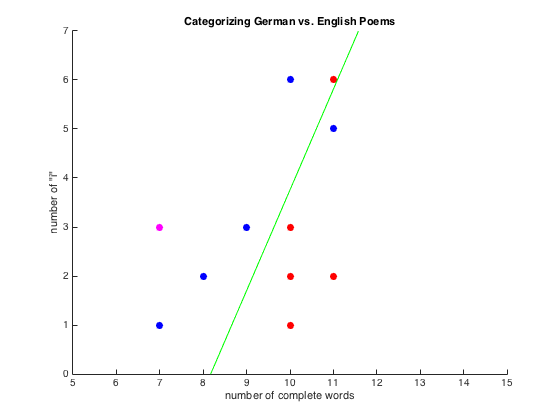
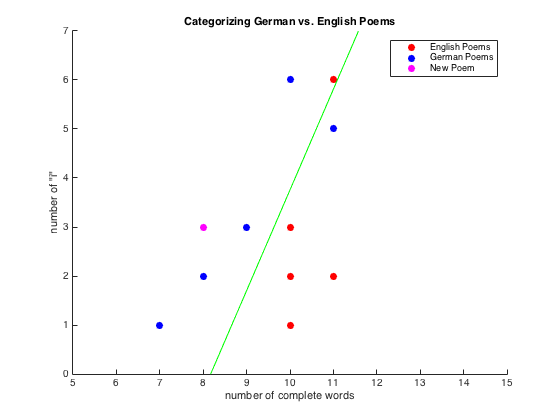
fixed some svm bugs

Changed region(s): [[0.7286, 0.0929, 0.8804, 0.1857], [0.3339, 0.5262, 0.3643, 0.5571], [0.2732, 0.5262, 0.3036, 0.5571]]

diff --git a/svm-poems/svm_poems.m b/svm-poems/svm_poems.m
@@ -31,8 +31,8 @@ c = [-1, -1, -1, -1, -1,  1,  1, 1, 1, 1];
 
 % plot data
 hold on
-plot(x(1:5), y(1:5),  '.r', 'Markersize', 25)
-plot(x(6:10),y(6:10), '.b', 'Markersize', 25)
+d1 = plot(x(1:5), y(1:5),  '.r', 'Markersize', 25);
+d2 = plot(x(6:10),y(6:10), '.b', 'Markersize', 25);
 title('Categorizing German vs. English Poems');
 ylabel('number of "i"');
 xlabel('number of complete words');
@@ -57,9 +57,10 @@ plot(xx,yy,'-g','Linewidth',1);
 % testing SVM by plotting new poem in magenta
 % poem is obviously in German - should be on blue side of partition
 new_poem = 'Hat der alte Hexenmeister sich doch einmal wegbege';
-new_poem_x = size(cell2mat(strfind(poems(i),' ')),2) + 1;
-new_poem_y = size(cell2mat(strfind(poems(i),'i')),2) + ...
-             size(cell2mat(strfind(poems(i),'I')),2);
-plot(new_poem_x,new_poem_y,'.m', 'Markersize', 25);
+new_poem_x = size(strfind(new_poem,' '),2) + 1;
+new_poem_y = size(strfind(new_poem,'i'),2) + ...
+             size(strfind(new_poem,'I'),2);
+d3 = plot(new_poem_x,new_poem_y,'.m', 'Markersize', 25);
 
+legend([d1 d2 d3],{'English Poems', 'German Poems', 'New Poem'});
 hold off;
